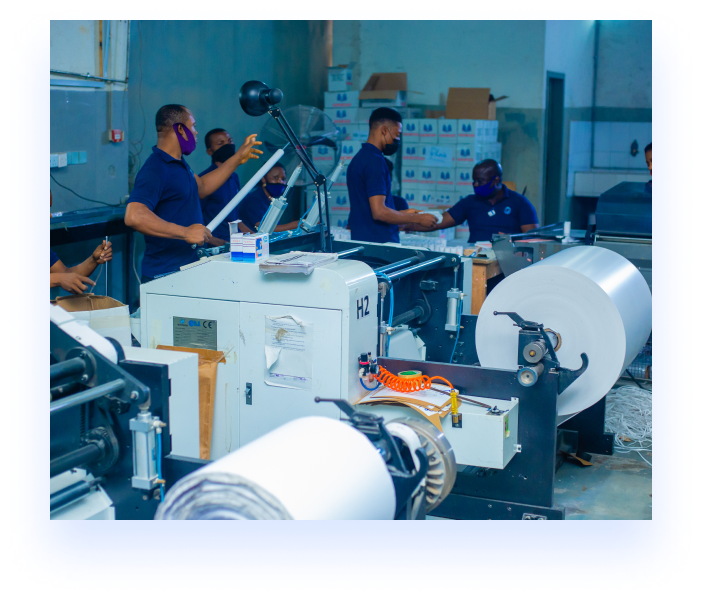
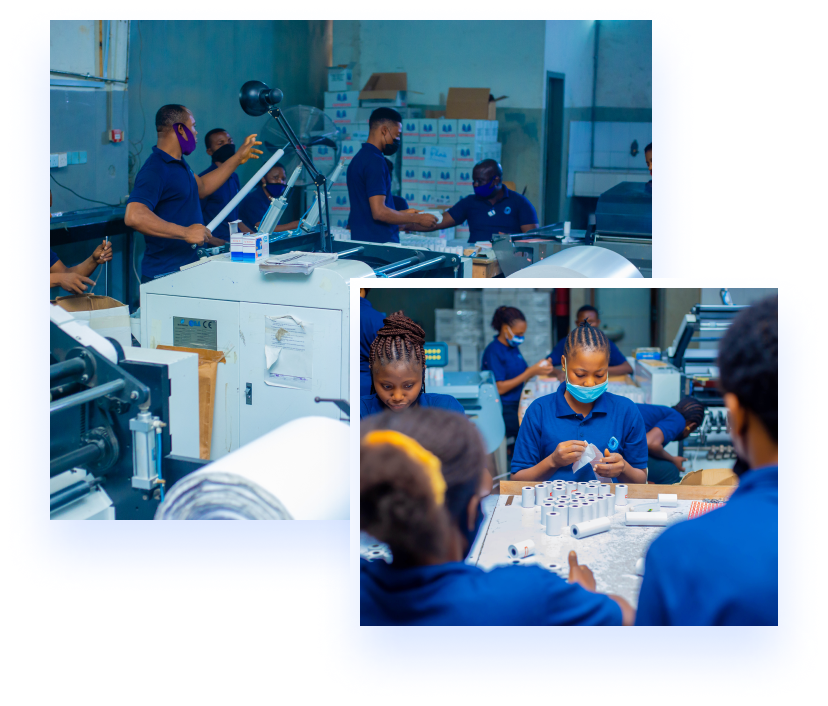
home page edits

diff --git a/src/Components/Pages/Home.js b/src/Components/Pages/Home.js
@@ -58,14 +58,14 @@ const Home = () => {
                    Leading <span className='Loop'>Security &amp; <br />Commercial </span>Print Company
                </h1>
                <p>
-               Your one-stop security, commercial and variable<br/>data print shop.
+               Your one-stop security, commercial and variable data print shop.
                </p>
                <button className='rMore'>
                    Read More
                    </button>
             </div>
             
-            <div className='outerBound'>   <img className='outerBound' src={OUTERBOUND} alt=''/></div>
+            {/* <div className='outerBound'>   <img className='outerBound' src={OUTERBOUND} alt=''/></div> */}
             <div className='introduction'>
                  
                        <div className='text'>
@@ -77,7 +77,7 @@ const Home = () => {
                         </div>
                         <div className='image'>
                              <img className='bottom' src={Group1} alt=''/>
-                             <img className='top' src={Group2} alt=''/> 
+                             {/* <img className='top' src={Group2} alt=''/>  */}
                          {/* <div className='cls3'></div>   */}
                         </div>
                       
@@ -144,8 +144,9 @@ background-blend-mode: multiply;
         display: flex;
         flex-direction: column;
         width: 50%;
-        height:600px;
+        // height:600px;
         padding-top: 200px;
+        padding-bottom: 200px;
         padding-left: 100px;
         p{
             line-height: 26px;
@@ -198,11 +199,12 @@ background-blend-mode: multiply;
         height: 700px;
         display: flex;
         flex-direction: row no-wrap;
+        border: 1px solid red;
         color: #011166;
         .text{
             width: 50%;
             padding-left: 100px;
-            padding-top: 100px;
+            // padding-top: 100px;
             h1{
                 font-size: 2.5rem;
                 font-weight: bold;
@@ -215,43 +217,8 @@ background-blend-mode: multiply;
             }
         }
         .image{
-            position:absolute;
-            width: 50%;
-            height: 500px;
-            justify-content: end;
-            right:0px;
-            .top{
-                position: absolute;
-                bottom:-130px;
-                width:418px;
-                height:338px;
-                img{
-                box-shadow: 0 20px 20px 0 rgb(223,221,123);
-                }
-                right:0;
-                z-index:10;
-            }
-            .bottom{
-                position: absolute;
-                right: 126px;
-                bottom:-60px;
-                border-radius:5px;
-                z-index:7;
-                width: 602px;
-                height: 500px;
-                
-            }
-        //     .cls3{
-        //         position: absolute;
-        //         bottom:-30px;
-        //         background: white;
-        //         right:10px;
-        //         height:230px;
-        //         border-radius: 5px;
-        //         width:370px;
-        //         b0x-shadow:  0 30px 50px 0 rgba(28,102,254,0.4);
-        //         z-index:9;
-        //     }
+           
+            
         }
       
      }
@@ -335,83 +302,35 @@ background-blend-mode: multiply;
     }
 
 
-    @media only screen and (max-width: 420px){
-        .Loop{
-            font-size: 24px;
-            line-height: 24px;
-            font-weight: 300;
-        }
-        .testimonials{
-            height: auto;
-            flex-direction: column-reverse;
-        }
-        .solutions{
-            .slides{
-                width: 100%;
-                // border: 2px solid red;
-            }
-        }
-        .cta{
-            width: 100%;
-            display: flex;
-            flex-direction: column;
-            padding-left: 5px;
-            padding-top: 100px;
-            h1{
-                font-size: 26px;
-                text-align:center;
-                line-height: 40px;
-                font-weight: 700;   
-                padding-top:40px
-            }
-            p{
-                padding-top: 40px;
-                text-align: center;
-                margin: 0 auto;
-                line-height: 30.4px;
-            }
-            .rMore{
-                margin-top: 40px;
-                	    justify-self: center;
-                        text-align: center;
-                        margin: 0 auto;
-            }
-            // .solutions{
-            //     position: relative;
-            //     display: none;
-            //     visibility: none;
-            // }
-            .introduction{
-                 display: flex;
-                flex-direction: column reverse;
-                width: 100%;
-                // background-color: #E5E5E5;
-                background:red;
-                height: auto;
-               
-                color: #011166;
-                div{
-                    display: flex;
-                    flex-direction: column reverse;
-                }
-               
-             }
-             .platform{
-                 display: flex;
-                 flex-direction: column;
-                
-                //  padding: 0;
-             }
-             .blog{
-                 display: flex;
-                 flex-direction: row nowrap;
-                 height: auto;
-                 width: 100%;
-             }
-    }
+  
 @media only screen and (max-width: 728px){
     body{
         width: 100%;
+    }
+    .cta{
+        width: 100%;
+        height: auto;
+        padding-top: 120px;
+        padding-left: 40px;
+        padding-bottom: 280px;
+        border: 1px solid red;
+        h1{
+            text-align: center;
+            font-size: 26px;
+            line-height: 40px;
+        }
+        p{
+            text-align: center;
+        }
+        button{
+            width: 100%;
+            height: 40px;
+            border-radius: 4px;
+            border: none;
+            outline: none;
+            background-color: #1A66FE;
+            margin: 0 auto;
+        }
     }
     .blog{
         display: flex;
@@ -421,59 +340,38 @@ background-blend-mode: multiply;
         width: 100%;
     }
     .introduction{
-        position: relative;
+      position: relative;
+      display: flex;
+        flex-direction: column-reverse;
         width: 100%;
-        padding:0px;
-        box-size: border-box;
-        background: #fff;
-        display: flex;
-        flex-direction: column !important ;
+        height: auto;
+        padding-top: 30px;
+        img{
+            width: 90%;
+            height: auto;
+            margin: 0 10%;
+
+        }
         .text{
-        //     position: relative;
-            width:100%;
-        //     // height: auto;
-        //     // border: 2px solid red;
-        //     top: 300px;
-            
+            width: 100%;
+            padding-left: 10px;
+            padding-top: 10px;
             display: flex;
             flex-direction: column;
-        //     h1{
-        //         width: 100%;
-        //         font-size:24px;
-        //         line-height: 32px;
-        //         margin: 0 auto;
-        //         text-align: center;
-        //     }
-        //     p{
-        //         padding: 20px;
-        //         font-size: 14px;
-        //         text-align: center;
-        //         color: #011166;
-        //         line-height: 27px;
-        //     }
-        }
-        .image{
-            width: 100%;
-        //     positon: absolute;
-        //     // border: 2px solid green;
-        //     // height: auto;
-        //     // height: 300px;
-        //     // blend: pass-through;
-            .top{
-                // position: absolute;
-                top: 150px;
-                left: 140px;
-                width: 160px;
-                height: 140px;
-                filter: drop-shadow(0px 30px 50px rgba(26, 102, 254, 0.16));
-                // z-index: 2;
+            h1{
+                font-size: 24px;
+                line-height: 32px;
+                font-weight: 600;
+                text-align: center;
+                font-family: Poppins;
             }
-            .bottom{
-        //         position: absolute;
-        //         top: 50px;
-        //         // left: 50px;
-                width: 240px;
-                height: 200px;
+            p{
+                font-size: 16px;
+                line-height: 28px;
+                text-align: center;
+                font-family: "SF Pro Text";
+                padding: 20px;
+
             }
         }
     }

diff --git a/src/Components/ChooseItems.js b/src/Components/ChooseItems.js
@@ -19,7 +19,7 @@ width: 290px;
 height: 150px;
 border-radius: 4px;
 // border: 1px solid #E5E5E5;
-box-shadow: 0px 0px 10px 0px rgba(0,0,0,0.75);
+box-shadow: 0px 4px 16px rgba(144, 153, 200, 0.24);
 background-color: #fff;
 margin:5px;
 div{

diff --git a/src/Components/NavBar.js b/src/Components/NavBar.js
@@ -88,7 +88,7 @@ NavBar.Wrapper = styled.div`
 .navbar-brand{
   img{
     width: 200px;
-    height: 100px;
+    height: 80px;
   }
 } 
 
